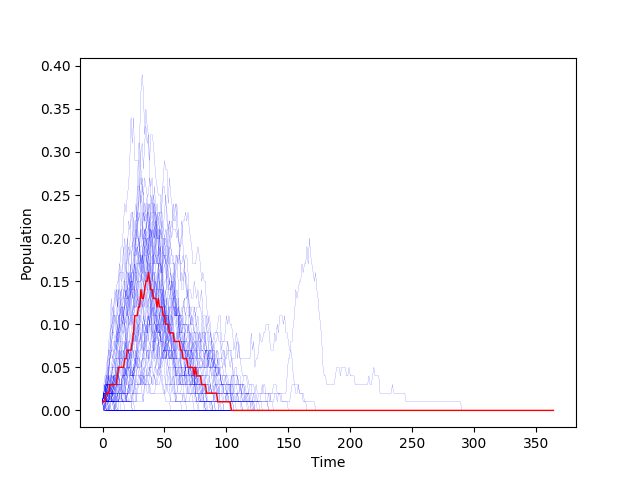
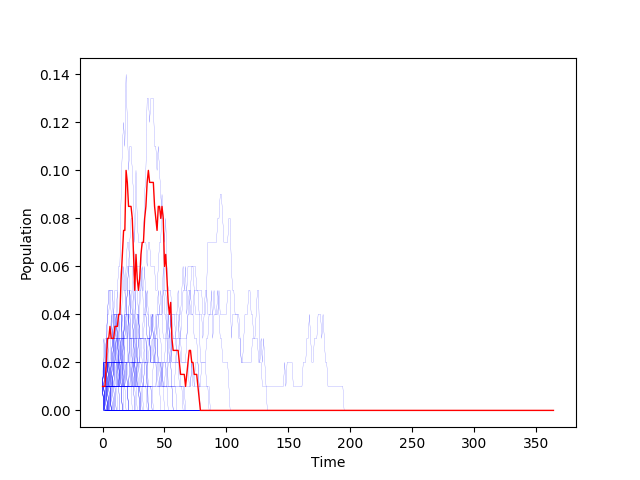
tqdm support

diff --git a/NetworkEpiModel.py b/NetworkEpiModel.py
@@ -104,10 +104,13 @@ class NetworkEpiModel(EpiModel):
 
 if __name__ == '__main__':
 
-    G = nx.erdos_renyi_graph(100, p=1.)
+    from tqdm import tqdm
+
+    N = 10000
+    G = nx.erdos_renyi_graph(N, p=1.)
 
     SIR = NetworkEpiModel(G)
-    SIR.add_interaction('S', 'I', 'I', 0.2/100)
+    SIR.add_interaction('S', 'I', 'I', 0.2/(2*N))
     #SIR.add_interaction('S', 'E', 'Is', 0.2)
     #SIR.add_spontaneous('E', 'Ia', 0.5*0.1)
     #SIR.add_spontaneous('E', 'Is', 0.5*0.1)
@@ -122,7 +125,7 @@ if __name__ == '__main__':
     values = []
     Nruns = 100
 
-    for i in range(Nruns):
+    for i in tqdm(range(Nruns), total=Nruns):
         SIR.simulate(365, seeds={50:'I'})
         ax.plot(SIR.I/N, lw=.1, c='b')
         if SIR.I.max() > 10:
